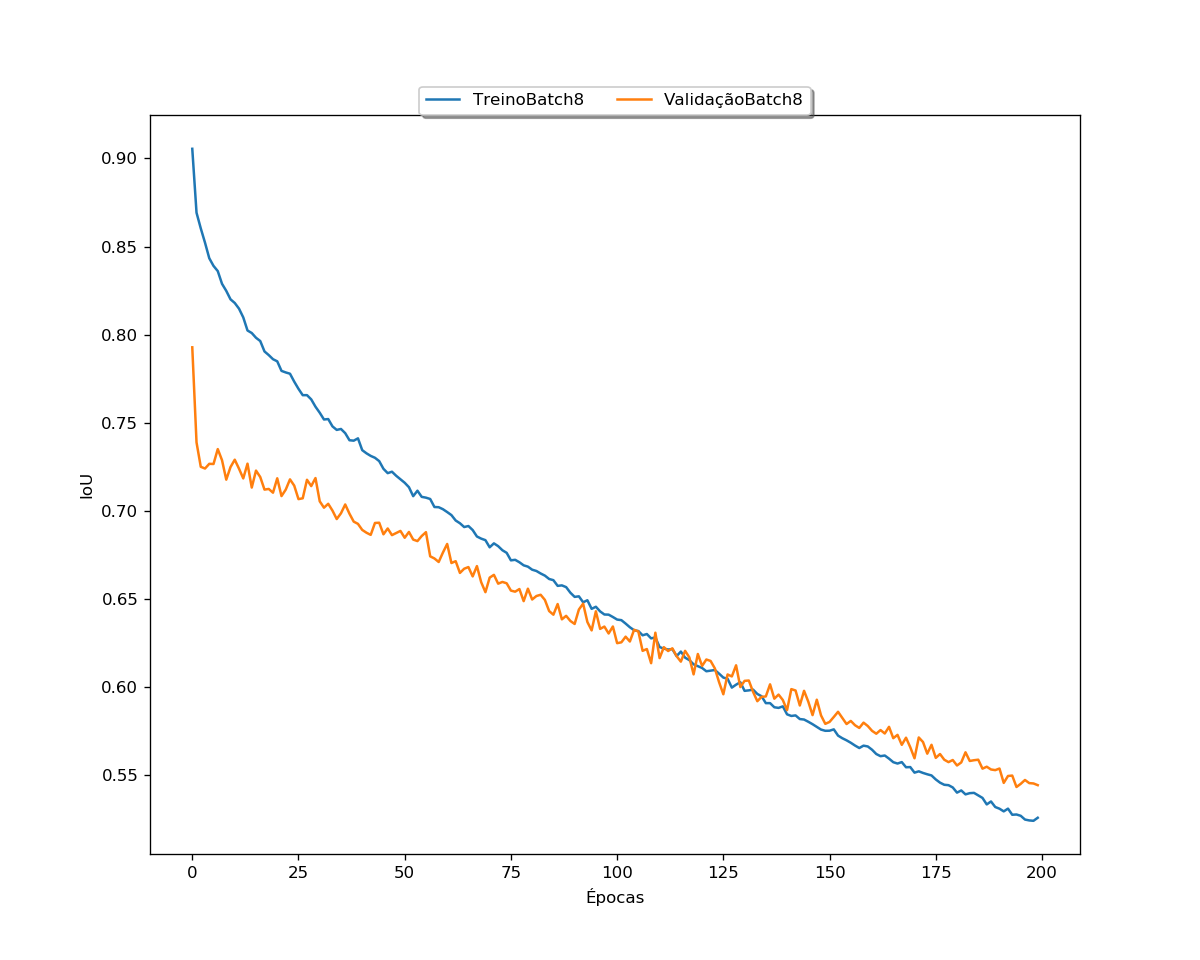
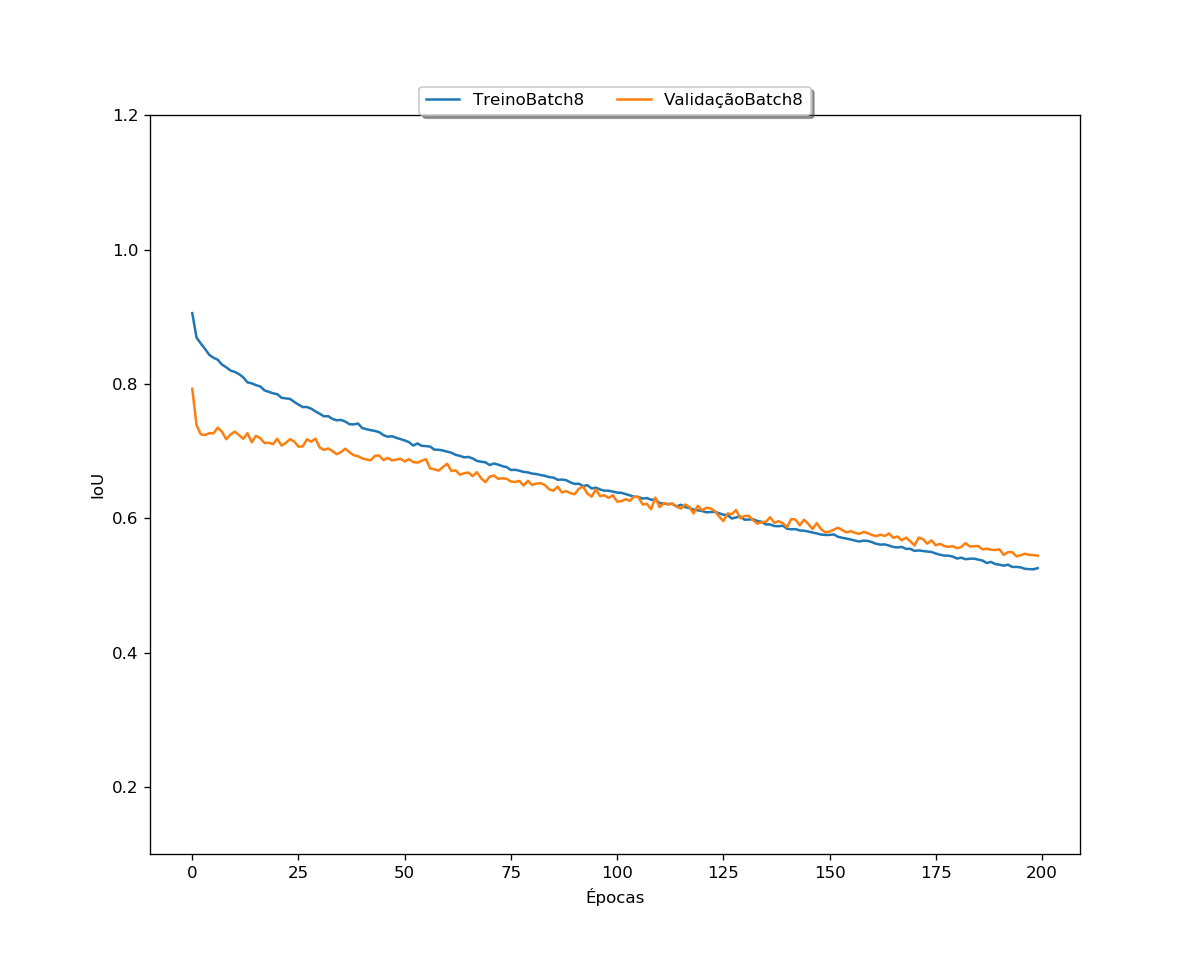
Processed results

diff --git a/unirmetricas.py b/unirmetricas.py
@@ -47,13 +47,13 @@ def listaNomeCSV202():
     listaNomes=[]
     for i in range(1,11):
         listaNomes.append('C:/Users/Adm/Desktop/Tattoo-Segmentation/Resultados/lr10-5momentum0,99batch8aug/'+str(i)+'Epocas200steps101batch8/Metricas/200epocas101steps8batch.csv')
-                            #C:\Users\Adm\Desktop\Tattoo-Segmentation\Resultados\lr10-5momentum0,99batch8
+
     return listaNomes
-def listaNomeCSV404():
-    listaNomes=[]
-    for i in range(1,11):
-        listaNomes.append('C:/Users/Adm/Desktop/Tattoo-Segmentation/Resultados/lr10-5momentum0,99batch8/'+str(i)+'Epocas200steps101batch8/Metricas/200epocas101steps8batch.csv')
-    return listaNomes
+# def listaNomeCSV404():
+#     listaNomes=[]
+#     for i in range(1,11):
+#         listaNomes.append('C:/Users/Adm/Desktop/Tattoo-Segmentation/Resultados/lr10-5momentum0,99batch8/'+str(i)+'Epocas200steps101batch8/Metricas/200epocas101steps8batch.csv')
+#     return listaNomes
 # def listaNomeCSV801():
 #     listaNomes=[]
 #     for i in range(1,11):
@@ -98,44 +98,47 @@ def MediaKfolds(listaNomes):
 
 # listinha=listaNomeCSV101()
 X = MediaKfolds(listaNomeCSV202())
-Y = MediaKfolds(listaNomeCSV404())
+# Y = MediaKfolds(listaNomeCSV404())
 # # W = MediaKfolds(listaNomeCSV801())
 # # Z = MediaKfolds(listaNomeCSV101())
 x = np.linspace(0, 1, 200)
 plt.figure(figsize=(10,8), dpi=120)
-plt.plot(Y[0])
-plt.plot(Y[2])
-plt.plot(X[0])
-plt.plot(X[2])
-# plt.errorbar(x, X[0], X[1])
-# plt.errorbar(x, X[2], X[3])
+# plt.plot(Y[0])
+# plt.plot(Y[2])
+# plt.plot(X[0])
+# plt.plot(X[2])
+plt.errorbar(x, X[0], X[1])
+plt.errorbar(x, X[2], X[3])
 # # plt.plot(W[0])
 # # plt.plot(W[1])
 # # plt.plot(Z[0])
 # # plt.plot(Z[1])
 plt.title('jaccard do Modelo')
-
+plt.ylim(0.1, 1.2)
+# plt.xlim(1, 401)
 plt.ylabel('IoU')
 plt.xlabel('Épocas')
 plt.legend(['TreinoBatch8', 'ValidaçãoBatch8','TreinoBatch8augmented', 'ValidaçãoBatch8augmented'],loc='upper center', bbox_to_anchor=(0.5, 1.05),
           ncol=4, fancybox=True, shadow=True)
 # plt.show()
-plt.savefig('C:/Users/Adm/Desktop/Tattoo-Segmentation/Resultados/lr10-5momentum0,99batch8aug/iouArqoriginal_200_101_8augComparision.png')
+plt.savefig('C:/Users/Adm/Desktop/Tattoo-Segmentation/Resultados/lr10-5momentum0,99Batch8aug/ERRORiouArqoriginal_200_101_8aug.png')
 plt.figure(figsize=(10,8))
-# plt.errorbar(x, X[4], X[5])
-# plt.errorbar(x, X[6], X[7])
-plt.plot(Y[4])
-plt.plot(Y[6])
-plt.plot(X[4])
-plt.plot(X[6])
+plt.errorbar(x, X[4], X[5])
+plt.errorbar(x, X[6], X[7])
+# plt.plot(Y[4])
+# plt.plot(Y[6])
+# plt.plot(X[4])
+# plt.plot(X[6])
 # # plt.plot(W[2])
 # # plt.plot(W[3])
 # # plt.plot(Z[2])
 # # plt.plot(Z[3])
 plt.title('Perda do Modelo')
+plt.ylim(0.1, 1.2)
+# plt.xlim(1, 410)
 plt.ylabel('Perda')
 plt.xlabel('Épocas')
 plt.legend(['TreinoBatch8', 'ValidaçãoBatch8','TreinoBatch8augmented', 'ValidaçãoBatch8augmented'],loc='upper center', bbox_to_anchor=(0.5, 1.05),
           ncol=4, fancybox=True, shadow=True)
 # plt.show()
-plt.savefig('C:/Users/Adm/Desktop/Tattoo-Segmentation/Resultados/lr10-5momentum0,99batch8aug/perdasArqoriginal_200_101_8augComparision.png')
+plt.savefig('C:/Users/Adm/Desktop/Tattoo-Segmentation/Resultados/lr10-5momentum0,99Batch8aug/ERRORperdasArqoriginal_200_101_8aug.png')
